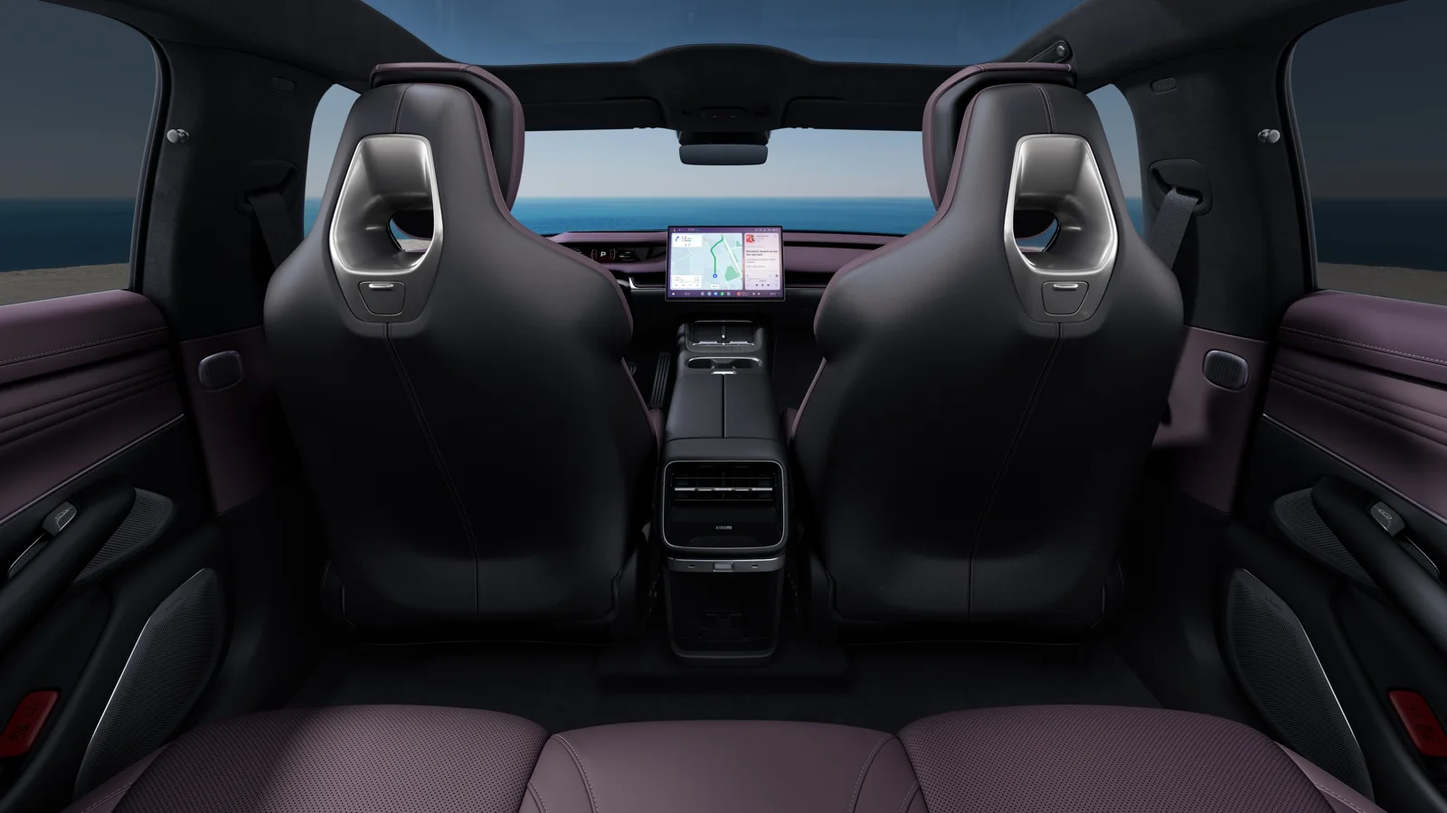
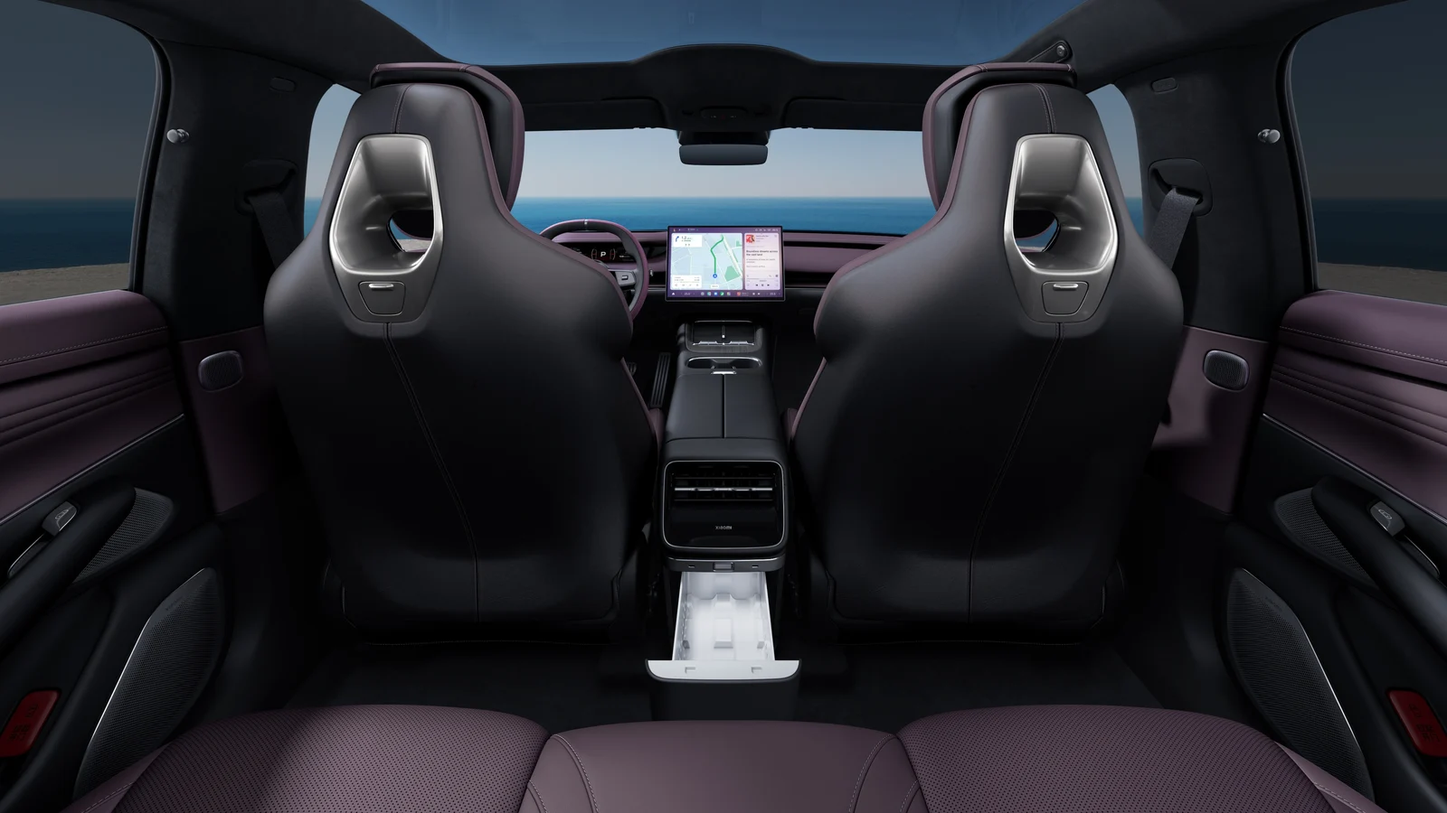
Конфигуратор Xiaomi SU7: сборка без цен, кадры Xiaomi под каждую сборку, отправка менеджеру

Changed region(s): [[0.4375, 0.6844, 0.5625, 0.84], [0.375, 0.2489, 0.4688, 0.3733]]

diff --git a/js/zeekr-data.js b/js/zeekr-data.js
@@ -1,2 +1,2 @@
 /* Данные конфигуратора Xiaomi SU7: официальный конфигуратор xiaomiev.com, сняты скриптами tools/xiaomi_snyat.py и tools/xiaomi_api.py. Цен нет намеренно. */
-window.ZEEKR_CFG = {"car":"Xiaomi SU7","short":"SU7","groups":[],"versions":[{"id":"v0","name":"Standard","tag":"720 км (CLTC), 320 л. с.","group":"","drive":"","level":[],"secs":[{"sku":"paint","role":"paint","title":"Цвет кузова","kind":"swatch","img":"ext","opts":[{"id":"p1","def":true,"promo":false,"promoTo":""},{"id":"p2","def":false,"promo":false,"promoTo":""},{"id":"p3","def":false,"promo":false,"promoTo":""},{"id":"p4","def":false,"promo":false,"promoTo":""},{"id":"p5","def":false,"promo":false,"promoTo":""},{"id":"p6","def":false,"promo":false,"promoTo":""},{"id":"p7","def":false,"promo":false,"promoTo":""}]},{"sku":"wheel","role":"wheel","title":"Диски","kind":"option","img":"ext","opts":[{"id":"w1","def":true,"promo":false,"promoTo":""},{"id":"w2","def":false,"promo":false,"promoTo":""},{"id":"w3","def":false,"promo":false,"promoTo":""},{"id":"w4","def":false,"promo":false,"promoTo":""}]},{"sku":"int","role":"int","title":"Цвет салона","kind":"swatch","img":"int","opts":[{"id":"i1","def":true,"promo":false,"promoTo":""},{"id":"i2","def":false,"promo":false,"promoTo":""},{"id":"i3","def":false,"promo":false,"promoTo":""},{"id":"i4","def":false,"promo":false,"promoTo":""}]}],"codePrefix":"v0-","vehicleSkus":["paint","wheel"],"interiorSkus":["int"],"ranges":{}},{"id":"v1","name":"Pro","tag":"902 км (CLTC), 320 л. с.","group":"","drive":"","level":[],"secs":[{"sku":"paint","role":"paint","title":"Цвет кузова","kind":"swatch","img":"ext","opts":[{"id":"p1","def":true,"promo":false,"promoTo":""},{"id":"p2","def":false,"promo":false,"promoTo":""},{"id":"p3","def":false,"promo":false,"promoTo":""},{"id":"p4","def":false,"promo":false,"promoTo":""},{"id":"p5","def":false,"promo":false,"promoTo":""},{"id":"p6","def":false,"promo":false,"promoTo":""},{"id":"p7","def":false,"promo":false,"promoTo":""}]},{"sku":"wheel","role":"wheel","title":"Диски","kind":"option","img":"ext","opts":[{"id":"w1","def":true,"promo":false,"promoTo":""},{"id":"w2","def":false,"promo":false,"promoTo":""},{"id":"w3","def":false,"promo":false,"promoTo":""},{"id":"w4","def":false,"promo":false,"promoTo":""}]},{"sku":"int","role":"int","title":"Цвет салона","kind":"swatch","img":"int","opts":[{"id":"i1","def":true,"promo":false,"promoTo":""},{"id":"i2","def":false,"promo":false,"promoTo":""},{"id":"i3","def":false,"promo":false,"promoTo":""},{"id":"i4","def":false,"promo":false,"promoTo":""}]}],"codePrefix":"v1-","vehicleSkus":["paint","wheel"],"interiorSkus":["int"],"ranges":{}},{"id":"v2","name":"Max","tag":"835 км (CLTC), 690 л. с.","group":"","drive":"","level":[],"secs":[{"sku":"paint","role":"paint","title":"Цвет кузова","kind":"swatch","img":"ext","opts":[{"id":"p1","def":true,"promo":false,"promoTo":""},{"id":"p2","def":false,"promo":false,"promoTo":""},{"id":"p3","def":false,"promo":false,"promoTo":""},{"id":"p4","def":false,"promo":false,"promoTo":""},{"id":"p5","def":false,"promo":false,"promoTo":""},{"id":"p6","def":false,"promo":false,"promoTo":""},{"id":"p7","def":false,"promo":false,"promoTo":""},{"id":"p8","def":false,"promo":false,"promoTo":""}]},{"sku":"wheel","role":"wheel","title":"Диски","kind":"option","img":"ext","opts":[{"id":"w1","def":true,"promo":false,"promoTo":""},{"id":"w2","def":false,"promo":false,"promoTo":""},{"id":"w3","def":false,"promo":false,"promoTo":""},{"id":"w5","def":false,"promo":false,"promoTo":""}]},{"sku":"int","role":"int","title":"Цвет салона","kind":"swatch","img":"int","opts":[{"id":"i1","def":true,"promo":false,"promoTo":""},{"id":"i2","def":false,"promo":false,"promoTo":""},{"id":"i3","def":false,"promo":false,"promoTo":""},{"id":"i4","def":false,"promo":false,"promoTo":""}]}],"codePrefix":"v2-","vehicleSkus":["paint","wheel"],"interiorSkus":["int"],"ranges":{}}],"options":{"p1":{"name":"Капри, синий","note":"","icon":"img/xiaomi-su7/options/p1.webp","mutex":["i3","w3"],"cascade":[],"sku":"paint"},"p2":{"name":"Алая заря","note":"","icon":"img/xiaomi-su7/options/p2.webp","mutex":["i3","i1","i4","w4","w3"],"cascade":[],"sku":"paint"},"p3":{"name":"Благородный серый","note":"","icon":"img/xiaomi-su7/options/p3.webp","mutex":["i4","w4","w3"],"cascade":[],"sku":"paint"},"p4":{"name":"Индиговый зелёный","note":"","icon":"img/xiaomi-su7/options/p4.webp","mutex":["w4","w3"],"cascade":[],"sku":"paint"},"p5":{"name":"Золотисто-розовый","note":"","icon":"img/xiaomi-su7/options/p5.webp","mutex":["i4","i3","w4"],"cascade":[],"sku":"paint"},"p6":{"name":"Жемчужно-белый","note":"","icon":"img/xiaomi-su7/options/p6.webp","mutex":["i2","i4","w4"],"cascade":[],"sku":"paint"},"p7":{"name":"Пурпурная заря","note":"","icon":"img/xiaomi-su7/options/p7.webp","mutex":["i3","i4","i2","w4"],"cascade":[],"sku":"paint"},"w1":{"name":"19″ «Алмаз»","note":"шины для дальних поездок","icon":"img/xiaomi-su7/options/w1.webp","mutex":[],"cascade":[],"sku":"wheel"},"w2":{"name":"20″ «Слива»","note":"шины для дальних поездок","icon":"img/xiaomi-su7/options/w2.webp","mutex":[],"cascade":[],"sku":"wheel"},"w3":{"name":"20″ «Рисовое зерно»","note":"шины для дальних поездок","icon":"img/xiaomi-su7/options/w3.webp","mutex":["p1","p2","p3","p4","p8"],"cascade":[],"sku":"wheel"},"w4":{"name":"20″ «Лезвие»","note":"спортивные шины","icon":"img/xiaomi-su7/options/w4.webp","mutex":["p2","p3","p4","p5","p6","p7","i3","i1","i4"],"cascade":[],"sku":"wheel"},"i1":{"name":"Туманный фиолетовый","note":"","icon":"img/xiaomi-su7/options/i1.webp","mutex":["p2","w4","p8"],"cascade":[],"sku":"int"},"i2":{"name":"Песочно-бежевый","note":"","icon":"img/xiaomi-su7/options/i2.webp","mutex":["p6","p7","p8"],"cascade":[],"sku":"int"},"i3":{"name":"Сумеречный красный","note":"","icon":"img/xiaomi-su7/options/i3.webp","mutex":["p1","p2","p5","p7","w4"],"cascade":[],"sku":"int"},"i4":{"name":"Ночной чёрный","note":"","icon":"img/xiaomi-su7/options/i4.webp","mutex":["p2","p3","p5","p6","p7","w4","p8"],"cascade":[],"sku":"int"},"p8":{"name":"Обсидиановый чёрный","note":"","icon":"img/xiaomi-su7/options/p8.webp","mutex":["i1","i2","i4","w3"],"cascade":[],"sku":"paint"},"w5":{"name":"21″ кованые «Слива», двухслойные","note":"шины для дальних поездок","icon":"img/xiaomi-su7/options/w5.webp","mutex":[],"cascade":[],"sku":"wheel"}},"have":{"v0-p1_w1":["hero","side","rear34","front","rear"],"v0-p1_w2":["hero","side","rear34","front","rear"],"v0-p1_w3":["hero","side","rear34","front","rear"],"v0-p1_w4":["hero","side","rear34","front","rear"],"v0-p2_w1":["hero","side","rear34","front","rear"],"v0-p2_w2":["hero","side","rear34","front","rear"],"v0-p2_w3":["hero","side","rear34","front","rear"],"v0-p2_w4":["hero","side","rear34","front","rear"],"v0-p3_w1":["hero","side","rear34","front","rear"],"v0-p3_w2":["hero","side","rear34","front","rear"],"v0-p3_w3":["hero","side","rear34","front","rear"],"v0-p3_w4":["hero","side","rear34","front","rear"],"v0-p4_w1":["hero","side","rear34","front","rear"],"v0-p4_w2":["hero","side","rear34","front","rear"],"v0-p4_w3":["hero","side","rear34","front","rear"],"v0-p4_w4":["hero","side","rear34","front","rear"],"v0-p5_w1":["hero","side","rear34","front","rear"],"v0-p5_w2":["hero","side","rear34","front","rear"],"v0-p5_w3":["hero","side","rear34","front","rear"],"v0-p5_w4":["hero","side","rear34","front","rear"],"v0-p6_w1":["hero","side","rear34","front","rear"],"v0-p6_w2":["hero","side","rear34","front","rear"],"v0-p6_w3":["hero","side","rear34","front","rear"],"v0-p6_w4":["hero","side","rear34","front","rear"],"v0-p7_w1":["hero","side","rear34","front","rear"],"v0-p7_w2":["hero","side","rear34","front","rear"],"v0-p7_w3":["hero","side","rear34","front","rear"],"v0-p7_w4":["hero","side","rear34","front","rear"],"v1-p1_w1":["hero","side","rear34","front","rear"],"v1-p1_w2":["hero","side","rear34","front","rear"],"v1-p1_w3":["hero","side","rear34","front","rear"],"v1-p1_w4":["hero","side","rear34","front","rear"],"v1-p2_w1":["hero","side","rear34","front","rear"],"v1-p2_w2":["hero","side","rear34","front","rear"],"v1-p2_w3":["hero","side","rear34","front","rear"],"v1-p2_w4":["hero","side","rear34","front","rear"],"v1-p3_w1":["hero","side","rear34","front","rear"],"v1-p3_w2":["hero","side","rear34","front","rear"],"v1-p3_w3":["hero","side","rear34","front","rear"],"v1-p3_w4":["hero","side","rear34","front","rear"],"v1-p4_w1":["hero","side","rear34","front","rear"],"v1-p4_w2":["hero","side","rear34","front","rear"],"v1-p4_w3":["hero","side","rear34","front","rear"],"v1-p4_w4":["hero","side","rear34","front","rear"],"v1-p5_w1":["hero","side","rear34","front","rear"],"v1-p5_w2":["hero","side","rear34","front","rear"],"v1-p5_w3":["hero","side","rear34","front","rear"],"v1-p5_w4":["hero","side","rear34","front","rear"],"v1-p6_w1":["hero","side","rear34","front","rear"],"v1-p6_w2":["hero","side","rear34","front","rear"],"v1-p6_w3":["hero","side","rear34","front","rear"],"v1-p6_w4":["hero","side","rear34","front","rear"],"v1-p7_w1":["hero","side","rear34","front","rear"],"v1-p7_w2":["hero","side","rear34","front","rear"],"v1-p7_w3":["hero","side","rear34","front","rear"],"v1-p7_w4":["hero","side","rear34","front","rear"],"v2-p1_w1":["hero","side","rear34","front","rear"],"v2-p1_w2":["hero","side","rear34","front","rear"],"v2-p1_w3":["hero","side","rear34","front","rear"],"v2-p1_w5":["hero","side","rear34","front","rear"],"v2-p2_w1":["hero","side","rear34","front","rear"],"v2-p2_w2":["hero","side","rear34","front","rear"],"v2-p2_w3":["hero","side","rear34","front","rear"],"v2-p2_w5":["hero","side","rear34","front","rear"],"v2-p3_w1":["hero","side","rear34","front","rear"],"v2-p3_w2":["hero","side","rear34","front","rear"],"v2-p3_w3":["hero","side","rear34","front","rear"],"v2-p3_w5":["hero","side","rear34","front","rear"],"v2-p4_w1":["hero","side","rear34","front","rear"],"v2-p4_w2":["hero","side","rear34","front","rear"],"v2-p4_w3":["hero","side","rear34","front","rear"],"v2-p4_w5":["hero","side","rear34","front","rear"],"v2-p5_w1":["hero","side","rear34","front","rear"],"v2-p5_w2":["hero","side","rear34","front","rear"],"v2-p5_w3":["hero","side","rear34","front","rear"],"v2-p5_w5":["hero","side","rear34","front","rear"],"v2-p6_w1":["hero","side","rear34","front","rear"],"v2-p6_w2":["hero","side","rear34","front","rear"],"v2-p6_w3":["hero","side","rear34","front","rear"],"v2-p6_w5":["hero","side","rear34","front","rear"],"v2-p7_w1":["hero","side","rear34","front","rear"],"v2-p7_w2":["hero","side","rear34","front","rear"],"v2-p7_w3":["hero","side","rear34","front","rear"],"v2-p7_w5":["hero","side","rear34","front","rear"],"v2-p8_w1":["hero","side","rear34","front","rear"],"v2-p8_w2":["hero","side","rear34","front","rear"],"v2-p8_w3":["hero","side","rear34","front","rear"],"v2-p8_w5":["hero","side","rear34","front","rear"]},"int":["v0-i1","v0-i2","v0-i3","v0-i4","v1-i1","v1-i2","v1-i3","v1-i4","v2-i1","v2-i2","v2-i3","v2-i4"],"paths":{"ext":"img/xiaomi-su7/ext/{code}--{shot}.webp","int":"img/xiaomi-su7/int/{code}--{shot}.webp"},"shots":[{"id":"hero","label":"Спереди","fit":"cover"},{"id":"side","label":"Сбоку","fit":"cover"},{"id":"rear34","label":"Сзади","fit":"cover"},{"id":"front","label":"Вид спереди","fit":"cover"},{"id":"rear","label":"Вид сзади","fit":"cover"},{"id":"int","label":"Салон","kind":"int"},{"id":"int2","label":"Второй ряд","kind":"int"}]};
+window.ZEEKR_CFG = {"car":"Xiaomi SU7","short":"SU7","groups":[],"versions":[{"id":"v0","name":"Standard","tag":"720 км (CLTC), 320 л. с.","group":"","drive":"","level":[],"secs":[{"sku":"paint","role":"paint","title":"Цвет кузова","kind":"swatch","img":"ext","opts":[{"id":"p1","def":true,"promo":false,"promoTo":""},{"id":"p2","def":false,"promo":false,"promoTo":""},{"id":"p3","def":false,"promo":false,"promoTo":""},{"id":"p4","def":false,"promo":false,"promoTo":""},{"id":"p5","def":false,"promo":false,"promoTo":""},{"id":"p6","def":false,"promo":false,"promoTo":""},{"id":"p7","def":false,"promo":false,"promoTo":""}]},{"sku":"wheel","role":"wheel","title":"Диски","kind":"option","img":"ext","opts":[{"id":"w1","def":true,"promo":false,"promoTo":""},{"id":"w2","def":false,"promo":false,"promoTo":""},{"id":"w3","def":false,"promo":false,"promoTo":""},{"id":"w4","def":false,"promo":false,"promoTo":""}]},{"sku":"int","role":"int","title":"Цвет салона","kind":"swatch","img":"int","opts":[{"id":"i1","def":true,"promo":false,"promoTo":""},{"id":"i2","def":false,"promo":false,"promoTo":""},{"id":"i3","def":false,"promo":false,"promoTo":""},{"id":"i4","def":false,"promo":false,"promoTo":""}]}],"codePrefix":"v0-","vehicleSkus":["paint","wheel"],"interiorSkus":["int"],"ranges":{}},{"id":"v1","name":"Pro","tag":"902 км (CLTC), 320 л. с.","group":"","drive":"","level":[],"secs":[{"sku":"paint","role":"paint","title":"Цвет кузова","kind":"swatch","img":"ext","opts":[{"id":"p1","def":true,"promo":false,"promoTo":""},{"id":"p2","def":false,"promo":false,"promoTo":""},{"id":"p3","def":false,"promo":false,"promoTo":""},{"id":"p4","def":false,"promo":false,"promoTo":""},{"id":"p5","def":false,"promo":false,"promoTo":""},{"id":"p6","def":false,"promo":false,"promoTo":""},{"id":"p7","def":false,"promo":false,"promoTo":""}]},{"sku":"wheel","role":"wheel","title":"Диски","kind":"option","img":"ext","opts":[{"id":"w1","def":true,"promo":false,"promoTo":""},{"id":"w2","def":false,"promo":false,"promoTo":""},{"id":"w3","def":false,"promo":false,"promoTo":""},{"id":"w4","def":false,"promo":false,"promoTo":""}]},{"sku":"int","role":"int","title":"Цвет салона","kind":"swatch","img":"int","opts":[{"id":"i1","def":true,"promo":false,"promoTo":""},{"id":"i2","def":false,"promo":false,"promoTo":""},{"id":"i3","def":false,"promo":false,"promoTo":""},{"id":"i4","def":false,"promo":false,"promoTo":""}]}],"codePrefix":"v1-","vehicleSkus":["paint","wheel"],"interiorSkus":["int"],"ranges":{}},{"id":"v2","name":"Max","tag":"835 км (CLTC), 690 л. с.","group":"","drive":"","level":[],"secs":[{"sku":"paint","role":"paint","title":"Цвет кузова","kind":"swatch","img":"ext","opts":[{"id":"p1","def":true,"promo":false,"promoTo":""},{"id":"p2","def":false,"promo":false,"promoTo":""},{"id":"p3","def":false,"promo":false,"promoTo":""},{"id":"p4","def":false,"promo":false,"promoTo":""},{"id":"p5","def":false,"promo":false,"promoTo":""},{"id":"p6","def":false,"promo":false,"promoTo":""},{"id":"p7","def":false,"promo":false,"promoTo":""},{"id":"p8","def":false,"promo":false,"promoTo":""}]},{"sku":"wheel","role":"wheel","title":"Диски","kind":"option","img":"ext","opts":[{"id":"w1","def":true,"promo":false,"promoTo":""},{"id":"w2","def":false,"promo":false,"promoTo":""},{"id":"w3","def":false,"promo":false,"promoTo":""},{"id":"w5","def":false,"promo":false,"promoTo":""}]},{"sku":"int","role":"int","title":"Цвет салона","kind":"swatch","img":"int","opts":[{"id":"i1","def":true,"promo":false,"promoTo":""},{"id":"i2","def":false,"promo":false,"promoTo":""},{"id":"i3","def":false,"promo":false,"promoTo":""},{"id":"i4","def":false,"promo":false,"promoTo":""}]}],"codePrefix":"v2-","vehicleSkus":["paint","wheel"],"interiorSkus":["int"],"ranges":{}}],"options":{"p1":{"name":"Капри, синий","note":"","icon":"img/xiaomi-su7/options/p1.webp","mutex":["i3","w3"],"cascade":[],"sku":"paint"},"p2":{"name":"Алая заря","note":"","icon":"img/xiaomi-su7/options/p2.webp","mutex":["i3","i1","i4","w4","w3"],"cascade":[],"sku":"paint"},"p3":{"name":"Благородный серый","note":"","icon":"img/xiaomi-su7/options/p3.webp","mutex":["i4","w4","w3"],"cascade":[],"sku":"paint"},"p4":{"name":"Индиговый зелёный","note":"","icon":"img/xiaomi-su7/options/p4.webp","mutex":["w4","w3"],"cascade":[],"sku":"paint"},"p5":{"name":"Золотисто-розовый","note":"","icon":"img/xiaomi-su7/options/p5.webp","mutex":["i4","i3","w4"],"cascade":[],"sku":"paint"},"p6":{"name":"Жемчужно-белый","note":"","icon":"img/xiaomi-su7/options/p6.webp","mutex":["i2","i4","w4"],"cascade":[],"sku":"paint"},"p7":{"name":"Пурпурная заря","note":"","icon":"img/xiaomi-su7/options/p7.webp","mutex":["i3","i4","i2","w4"],"cascade":[],"sku":"paint"},"w1":{"name":"19″ «Алмаз»","note":"шины для дальних поездок","icon":"img/xiaomi-su7/options/w1.webp","mutex":[],"cascade":[],"sku":"wheel"},"w2":{"name":"20″ «Слива»","note":"шины для дальних поездок","icon":"img/xiaomi-su7/options/w2.webp","mutex":[],"cascade":[],"sku":"wheel"},"w3":{"name":"20″ «Рисовое зерно»","note":"шины для дальних поездок","icon":"img/xiaomi-su7/options/w3.webp","mutex":["p1","p2","p3","p4","p8"],"cascade":[],"sku":"wheel"},"w4":{"name":"20″ «Лезвие»","note":"спортивные шины","icon":"img/xiaomi-su7/options/w4.webp","mutex":["p2","p3","p4","p5","p6","p7","i3","i1","i4"],"cascade":[],"sku":"wheel"},"i1":{"name":"Туманный фиолетовый","note":"","icon":"img/xiaomi-su7/options/i1.webp","mutex":["p2","w4","p8"],"cascade":[],"sku":"int"},"i2":{"name":"Песочно-бежевый","note":"","icon":"img/xiaomi-su7/options/i2.webp","mutex":["p6","p7","p8"],"cascade":[],"sku":"int"},"i3":{"name":"Сумеречный красный","note":"","icon":"img/xiaomi-su7/options/i3.webp","mutex":["p1","p2","p5","p7","w4"],"cascade":[],"sku":"int"},"i4":{"name":"Ночной чёрный","note":"","icon":"img/xiaomi-su7/options/i4.webp","mutex":["p2","p3","p5","p6","p7","w4","p8"],"cascade":[],"sku":"int"},"p8":{"name":"Обсидиановый чёрный","note":"","icon":"img/xiaomi-su7/options/p8.webp","mutex":["i1","i2","i4","w3"],"cascade":[],"sku":"paint"},"w5":{"name":"21″ кованые «Слива», двухслойные","note":"шины для дальних поездок","icon":"img/xiaomi-su7/options/w5.webp","mutex":[],"cascade":[],"sku":"wheel"}},"have":{"v0-p1_w1":["hero","side","rear34","front","rear"],"v0-p1_w2":["hero","side","rear34","front","rear"],"v0-p1_w3":["hero","side","rear34","front","rear"],"v0-p1_w4":["hero","side","rear34","front","rear"],"v0-p2_w1":["hero","side","rear34","front","rear"],"v0-p2_w2":["hero","side","rear34","front","rear"],"v0-p2_w3":["hero","side","rear34","front","rear"],"v0-p2_w4":["hero","side","rear34","front","rear"],"v0-p3_w1":["hero","side","rear34","front","rear"],"v0-p3_w2":["hero","side","rear34","front","rear"],"v0-p3_w3":["hero","side","rear34","front","rear"],"v0-p3_w4":["hero","side","rear34","front","rear"],"v0-p4_w1":["hero","side","rear34","front","rear"],"v0-p4_w2":["hero","side","rear34","front","rear"],"v0-p4_w3":["hero","side","rear34","front","rear"],"v0-p4_w4":["hero","side","rear34","front","rear"],"v0-p5_w1":["hero","side","rear34","front","rear"],"v0-p5_w2":["hero","side","rear34","front","rear"],"v0-p5_w3":["hero","side","rear34","front","rear"],"v0-p5_w4":["hero","side","rear34","front","rear"],"v0-p6_w1":["hero","side","rear34","front","rear"],"v0-p6_w2":["hero","side","rear34","front","rear"],"v0-p6_w3":["hero","side","rear34","front","rear"],"v0-p6_w4":["hero","side","rear34","front","rear"],"v0-p7_w1":["hero","side","rear34","front","rear"],"v0-p7_w2":["hero","side","rear34","front","rear"],"v0-p7_w3":["hero","side","rear34","front","rear"],"v0-p7_w4":["hero","side","rear34","front","rear"],"v1-p1_w1":["hero","side","rear34","front","rear"],"v1-p1_w2":["hero","side","rear34","front","rear"],"v1-p1_w3":["hero","side","rear34","front","rear"],"v1-p1_w4":["hero","side","rear34","front","rear"],"v1-p2_w1":["hero","side","rear34","front","rear"],"v1-p2_w2":["hero","side","rear34","front","rear"],"v1-p2_w3":["hero","side","rear34","front","rear"],"v1-p2_w4":["hero","side","rear34","front","rear"],"v1-p3_w1":["hero","side","rear34","front","rear"],"v1-p3_w2":["hero","side","rear34","front","rear"],"v1-p3_w3":["hero","side","rear34","front","rear"],"v1-p3_w4":["hero","side","rear34","front","rear"],"v1-p4_w1":["hero","side","rear34","front","rear"],"v1-p4_w2":["hero","side","rear34","front","rear"],"v1-p4_w3":["hero","side","rear34","front","rear"],"v1-p4_w4":["hero","side","rear34","front","rear"],"v1-p5_w1":["hero","side","rear34","front","rear"],"v1-p5_w2":["hero","side","rear34","front","rear"],"v1-p5_w3":["hero","side","rear34","front","rear"],"v1-p5_w4":["hero","side","rear34","front","rear"],"v1-p6_w1":["hero","side","rear34","front","rear"],"v1-p6_w2":["hero","side","rear34","front","rear"],"v1-p6_w3":["hero","side","rear34","front","rear"],"v1-p6_w4":["hero","side","rear34","front","rear"],"v1-p7_w1":["hero","side","rear34","front","rear"],"v1-p7_w2":["hero","side","rear34","front","rear"],"v1-p7_w3":["hero","side","rear34","front","rear"],"v1-p7_w4":["hero","side","rear34","front","rear"],"v2-p1_w1":["hero","side","rear34","front","rear"],"v2-p1_w2":["hero","side","rear34","front","rear"],"v2-p1_w3":["hero","side","rear34","front","rear"],"v2-p1_w5":["hero","side","rear34","front","rear"],"v2-p2_w1":["hero","side","rear34","front","rear"],"v2-p2_w2":["hero","side","rear34","front","rear"],"v2-p2_w3":["hero","side","rear34","front","rear"],"v2-p2_w5":["hero","side","rear34","front","rear"],"v2-p3_w1":["hero","side","rear34","front","rear"],"v2-p3_w2":["hero","side","rear34","front","rear"],"v2-p3_w3":["hero","side","rear34","front","rear"],"v2-p3_w5":["hero","side","rear34","front","rear"],"v2-p4_w1":["hero","side","rear34","front","rear"],"v2-p4_w2":["hero","side","rear34","front","rear"],"v2-p4_w3":["hero","side","rear34","front","rear"],"v2-p4_w5":["hero","side","rear34","front","rear"],"v2-p5_w1":["hero","side","rear34","front","rear"],"v2-p5_w2":["hero","side","rear34","front","rear"],"v2-p5_w3":["hero","side","rear34","front","rear"],"v2-p5_w5":["hero","side","rear34","front","rear"],"v2-p6_w1":["hero","side","rear34","front","rear"],"v2-p6_w2":["hero","side","rear34","front","rear"],"v2-p6_w3":["hero","side","rear34","front","rear"],"v2-p6_w5":["hero","side","rear34","front","rear"],"v2-p7_w1":["hero","side","rear34","front","rear"],"v2-p7_w2":["hero","side","rear34","front","rear"],"v2-p7_w3":["hero","side","rear34","front","rear"],"v2-p7_w5":["hero","side","rear34","front","rear"],"v2-p8_w1":["hero","side","rear34","front","rear"],"v2-p8_w2":["hero","side","rear34","front","rear"],"v2-p8_w3":["hero","side","rear34","front","rear"],"v2-p8_w5":["hero","side","rear34","front","rear"]},"int":["v0-i1","v0-i2","v0-i3","v0-i4","v1-i1","v1-i2","v1-i3","v1-i4","v2-i1","v2-i2","v2-i3","v2-i4"],"paths":{"ext":"img/xiaomi-su7/ext/{code}--{shot}.webp","int":"img/xiaomi-su7/int/{code}--{shot}.webp"},"shots":[{"id":"hero","label":"Спереди","fit":"cover"},{"id":"side","label":"Сбоку","fit":"cover"},{"id":"rear34","label":"Сзади","fit":"cover"},{"id":"front","label":"Вид спереди","fit":"cover"},{"id":"rear","label":"Вид сзади","fit":"cover"},{"id":"int","label":"Салон","kind":"int"},{"id":"int2","label":"Из второго ряда","kind":"int"}]};

diff --git a/tools/xiaomi_api.py b/tools/xiaomi_api.py
@@ -70,16 +70,29 @@ def items_of(cfg):
                         yield t, g, dict(ch, name=i['name'], defaultSelect=any(c.get('defaultSelect') for c in i['itemList']), configValueImage=img, _all=[c['ssuId'] for c in i['itemList']])
                     elif 'ssuId' in i: yield t, g, i
 
-def layers(v, sel, view):
+def selection(v):
+    """Полный выбор по умолчанию. У необязательной опции Xiaomi есть скрытый вариант «не выбрано» (defaultSsuNode): обычный руль,
+    штатные накладки и т. п. Их сайт подставляет сам; без них в кадре пропадают детали (салон без руля, 12.11.2026)."""
+    sel = {}
+    for t, g, i in items_of(v['cfg']):
+        d = i.get('defaultSsuNode') or {}
+        if d.get('itemIdentifier') and d.get('ssuId'): sel.setdefault(d['itemIdentifier'], d['ssuId'])
+    sel.update(v['cfg']['configurator']['defaultConfigSsuInfo']); sel['0_BB'] = v['ssuId']
+    return sel
+
+def layers(v, sel, view, page='CAR_CONFIG_OUTCOMEOUTSIDE_PAGE', comp='COLOR_PAGE_OUTCOME'):
     """Слои кадра по правилу сборки Xiaomi: [(url, x, y, w, h)] снизу вверх."""
-    page = v['mat']['pageMap']['CAR_CONFIG_OUTCOMEOUTSIDE_PAGE']; dp = page['dataPool']; out = []
-    for rule in page['componentMap']['COLOR_PAGE_OUTCOME']['combinationRule']:
+    pg = v['mat']['pageMap'].get(page) or {}; dp = pg.get('dataPool') or {}; out = []
+    for rule in ((pg.get('componentMap') or {}).get(comp) or {}).get('combinationRule') or []:
         for el in rule['elementList']:
             ssus = [sel.get(i) for i in el.split(',')]
             if any(s is None for s in ssus): continue
             mv = (dp.get('PC_' + rule['componentId'] + ':' + ':'.join(str(s) for s in ssus)) or {}).get('materialValueList') or []
             for x in mv:
-                if x.get('viewIdentityEnum') == view and x.get('payload') and x['width'] > 1: out.append((x['payload'], x['xCoordinate'], x['yCoordinate'], x['width'], x['height']))
+                if x.get('viewIdentityEnum') == view and x.get('payload') and x['width'] > 1:
+                    w, h = x['width'], x['height']
+                    if x['xCoordinate'] == 0 and x['yCoordinate'] == 0 and 2000 <= w < 5000 and abs(w / h - 5000 / 2812) < 0.02: w, h = 5000, 2812   # вся сцена, выложенная в меньшем размере
+                    out.append((x['payload'], x['xCoordinate'], x['yCoordinate'], w, h))
     return out
 
 def sobrat(proj, car, short, slug):
@@ -96,10 +109,10 @@ def sobrat(proj, car, short, slug):
         k = (role, re.sub(r'\s+', '', cn))
         if k not in reg: reg[k] = f'{role[0]}{len([x for x in reg if x[0] == role]) + 1}'
         return reg[k]
-    options, vers, have, ints, frames, icons, intjobs, mut = {}, [], {}, [], [], {}, {}, collections.defaultdict(set)
+    options, vers, have, ints, frames, iframes, icons, mut = {}, [], {}, [], [], [], {}, collections.defaultdict(set)
     for vi, v in enumerate(raw['versions']):
         cfg = v['cfg']; pre = f'v{vi}-'; pm = v['mat']['pageMap']
-        dflt = dict(cfg['configurator']['defaultConfigSsuInfo']); dflt['0_BB'] = v['ssuId']
+        dflt = selection(v)
         ins = (pm.get('INSIDE_PAGE') or {}).get('dataPool') or {}
         byrole = {'paint': [], 'wheel': [], 'int': []}; ssu2opt = {}
         for t, g, i in items_of(cfg):
@@ -125,11 +138,12 @@ def sobrat(proj, car, short, slug):
                 options.setdefault(pc, {'name': nm, 'note': note, 'icon': icon, 'mutex': [], 'cascade': [], 'sku': role})
                 ops.append({'id': pc, 'def': bool(i.get('defaultSelect')) or dflt.get(i.get('itemIdentifier')) in ([i['ssuId']] + (i.get('_all') or [])), 'promo': False, 'promoTo': ''})
                 if role == 'int':
-                    mv = {x.get('viewIdentityEnum'): x['payload'] for x in (ins.get(f'PC_INSIDE_CAR_CONFIG_OUTCOME_CROPPING:{i["ssuId"]}') or {}).get('materialValueList') or [] if x.get('width', 0) > 1}   # 1×1 – заглушка
-                    a, b = mv.get('2d_frontRow_DRIVER') or mv.get('2d_frontRow_PAX'), mv.get('2d_backRow_CNTR')
+                    isel = dict(dflt, **{'1_NSYS': i['ssuId']}); full = lambda ls: bool(ls) and ls[0][3] >= 4000      # салон тоже собирается из слоёв: основа + руль, накладки, экраны
+                    il = lambda view: layers(v, isel, view, 'INSIDE_PAGE', 'INSIDE_COMBINATION_OUTCOME')
+                    a = next((il(vw) for vw in ('2d_frontRow_DRIVER', '2d_frontRow_PAX') if full(il(vw))), None); b = il('2d_backRow_CNTR')
                     if a:
-                        code = pre + pc; ints.append(code); intjobs[f'{proj}/{IMG}/int/{code}--int.webp'] = a
-                        if b: intjobs[f'{proj}/{IMG}/int/{code}--int2.webp'] = b
+                        code = pre + pc; ints.append(code); iframes.append((f'{proj}/{IMG}/int/{code}--int.webp', 'int', a, None))
+                        if full(b): iframes.append((f'{proj}/{IMG}/int/{code}--int2.webp', 'int2', b, None))
             if ops:
                 if not any(o['def'] for o in ops): ops[0]['def'] = True
                 secs.append({'sku': role, 'role': role, 'title': title, 'kind': kind, 'img': img, 'opts': ops})
@@ -157,7 +171,7 @@ def sobrat(proj, car, short, slug):
         if all(i in vids for i in both): options[a]['mutex'].append(b); options[b]['mutex'].append(a)
         else: print('ВНИМАНИЕ: пара несовместима не во всех версиях, правило не поставлено:', options[a]['name'], '/', options[b]['name'], flush=True)
     # скачать слои
-    urls = sorted({l[0] for f in frames for l in f[2]} | set(icons.values()) | set(intjobs.values()))
+    urls = sorted({l[0] for f in frames + iframes for l in f[2]} | set(icons.values()))
     with ThreadPoolExecutor(6) as ex: got = dict(zip(urls, ex.map(lambda u: curl(u, cpath(u)), urls)))
     print('слоёв и значков', len(urls), 'не скачалось', sum(not g for g in got.values()), flush=True)
     # рамка вырезки на вид: по слою дисков первой сборки (центр по горизонтали, колёса на 2/3 высоты), ширина одна на модель
@@ -178,7 +192,7 @@ def sobrat(proj, car, short, slug):
     def make(fr):
         dst, sid, ls, _ = fr; sig = (sid,) + tuple(l[0] for l in ls)
         if sig in done: return
-        done[sig] = dst; box = boxes[sid]; canvas = None
+        done[sig] = dst; box = boxes[sid]; canvas = None; size = (OUT_W, OUT_H) if sid not in ('int', 'int2') else (1600, 900)
         if os.path.exists(dst) and os.path.getsize(dst) > 300: return
         for u, x, y, w, h in ls:
             if not got.get(u): return
@@ -194,11 +208,12 @@ def sobrat(proj, car, short, slug):
                 l = px[x0 - 2, y]; r = px[x1 + 2, y]
                 for x in range(x0, x1):
                     t = (x - x0) / max(1, x1 - x0); px[x, y] = tuple(int(l[i] + (r[i] - l[i]) * t) for i in range(3))
-        canvas.resize((OUT_W, OUT_H), Image.LANCZOS).save(dst + '.part', 'WEBP', quality=86, method=4); os.replace(dst + '.part', dst)
+        canvas.resize(size, Image.LANCZOS).save(dst + '.part', 'WEBP', quality=86, method=4); os.replace(dst + '.part', dst)
     uniq = {}
-    for fr in frames: uniq.setdefault((fr[1],) + tuple(l[0] for l in fr[2]), fr)
+    boxes['int'] = boxes['int2'] = (0, 0, 5000, 2812)
+    for fr in frames + iframes: uniq.setdefault((fr[1],) + tuple(l[0] for l in fr[2]), fr)
     with ThreadPoolExecutor(4) as ex: list(ex.map(make, uniq.values()))
-    for dst, sid, ls, _ in frames:                                           # одинаковые сборки разных версий – копией
+    for dst, sid, ls, _ in frames + iframes:                                 # одинаковые сборки разных версий – копией
         src = done.get((sid,) + tuple(l[0] for l in ls))
         if src and src != dst and os.path.exists(src) and not os.path.exists(dst): shutil.copyfile(src, dst)
     def small(item, size, q):
@@ -206,8 +221,7 @@ def sobrat(proj, car, short, slug):
         if not got.get(u) or (os.path.exists(dst) and os.path.getsize(dst) > 300): return
         im = Image.open(cpath(u)); im = im.convert('RGBA' if size[0] < 200 else 'RGB'); im.thumbnail(size); im.save(dst + '.part', 'WEBP', quality=q, method=4); os.replace(dst + '.part', dst)
     for it in icons.items(): small(it, (112, 112), 88)
-    for it in intjobs.items(): small(it, (1600, 1600), 84)
-    keep = {f[0] for f in frames} | set(icons) | set(intjobs)                 # кадры от прежних сборок, которых больше нет в данных, убираем
+    keep = {f[0] for f in frames + iframes} | set(icons)                 # кадры от прежних сборок, которых больше нет в данных, убираем
     for d in ('ext', 'int', 'options'):
         for fn in os.listdir(f'{proj}/{IMG}/{d}'):
             if f'{proj}/{IMG}/{d}/{fn}' not in keep: os.remove(f'{proj}/{IMG}/{d}/{fn}')
@@ -219,7 +233,7 @@ def sobrat(proj, car, short, slug):
     for o in options.values():
         if o['icon'] and not ex_(f'{proj}/{o["icon"]}'): o['icon'] = None
     used = [sid for sid, _, _ in VIEWS if any(sid in ss for ss in have.values())]
-    shots = [{'id': sid, 'label': lab, 'fit': 'cover'} for sid, _, lab in VIEWS if sid in used] + [{'id': 'int', 'label': 'Салон', 'kind': 'int'}] + ([{'id': 'int2', 'label': 'Второй ряд', 'kind': 'int'}] if two else [])
+    shots = [{'id': sid, 'label': lab, 'fit': 'cover'} for sid, _, lab in VIEWS if sid in used] + [{'id': 'int', 'label': 'Салон', 'kind': 'int'}] + ([{'id': 'int2', 'label': 'Из второго ряда', 'kind': 'int'}] if two else [])
     for v in vers:
         by = {s['sku']: s for s in v['secs']}
         miss = [c for c in (v['codePrefix'] + p['id'] + '_' + w['id'] for p in by['paint']['opts'] for w in by['wheel']['opts'] if w['id'] not in options[p['id']]['mutex']) if c not in have]

diff --git a/tools/obzor.py b/tools/obzor.py
@@ -1,0 +1,46 @@
+"""Обзорные листы кадров конфигуратора – смотреть глазами перед выкладкой (правило после салона Xiaomi без руля, 12.11.2026).
+  python3 obzor.py <папка проекта> <папка для листов>
+Салон: КАЖДЫЙ разный кадр салона (одинаковые по содержимому показываются один раз, с числом повторов).
+Кузов: по каждой версии – все виды сборки по умолчанию и главный кадр каждого цвета.
+На что смотреть: руль, сиденья, экраны, зеркала, диски, антикрыло на месте; нет обрезанной машины, пустых областей, иероглифов."""
+import json, os, sys, hashlib, collections
+from PIL import Image, ImageDraw
+proj, out = sys.argv[1], sys.argv[2]; os.makedirs(out, exist_ok=True)
+name = os.path.basename(os.path.abspath(proj)).replace('-konfigurator', '')
+d = json.loads(open(f'{proj}/js/zeekr-data.js').read().split('window.ZEEKR_CFG = ', 1)[1].rstrip().rstrip(';'))
+def sheet(cells, cols, cw, ch, path, per=28):
+    files = []
+    for part in range(0, len(cells), per):
+        ch_ = cells[part:part + per]; rows = (len(ch_) + cols - 1) // cols
+        sh = Image.new('RGB', (cols * cw, rows * (ch + 14)), (238, 238, 238)); dr = ImageDraw.Draw(sh)
+        for n, (f, label) in enumerate(ch_):
+            x, y = (n % cols) * cw, (n // cols) * (ch + 14)
+            try:
+                im = Image.open(f).convert('RGBA'); bg = Image.new('RGBA', im.size, (238, 238, 238, 255)); bg.alpha_composite(im); im = bg.convert('RGB'); im.thumbnail((cw - 4, ch)); sh.paste(im, (x + 2, y + 13))
+            except Exception as e: dr.text((x + 4, y + 30), 'НЕ ОТКРЫВАЕТСЯ', fill=(255, 0, 0))
+            dr.text((x + 3, y + 1), label[:int(cw / 6.2)], fill=(0, 0, 0))
+        p = f'{path}-{part // per + 1}.png'; sh.save(p); files.append(p)
+    return files
+ish = [s['id'] for s in d['shots'] if s['id'] == 'int' or s.get('kind') == 'int']
+seen = collections.OrderedDict()
+for c in d['int']:
+    for s in ish:
+        f = f'{proj}/' + d['paths']['int'].replace('{code}', c).replace('{shot}', s)
+        if not os.path.exists(f): continue
+        h = hashlib.md5(open(f, 'rb').read()).hexdigest(); seen.setdefault(h, [f, f'{c} {s}', 0]); seen[h][2] += 1
+files = sheet([(f, f'{lab} ×{n}') for f, lab, n in seen.values()], 4, 350, 220, f'{out}/{name}-salon', 24)
+cells = []
+for v in d['versions']:
+    by = {s['sku']: s for s in v['secs']}
+    def code(sel): return v.get('codePrefix', '') + '_'.join(x for x in (sel.get(k) for k in v['vehicleSkus']) if x)
+    dsel = {k: (next((o['id'] for o in s['opts'] if o['def']), s['opts'][0]['id']) if s['role'] != 'extra' else (s['opts'][0]['id'] if s['opts'][0]['def'] or s['opts'][0].get('pre') else None)) for k, s in by.items()}
+    c0 = code(dsel); shots = (['hero'] + [x for x in ((d.get('ang') or {}).get(c0) or d['have'].get(c0) or []) if x != 'hero'])
+    for s in shots:
+        f = f'{proj}/' + d['paths']['ext'].replace('{code}', c0).replace('{shot}', s)
+        cells.append((f, f'{v["name"]} | {s}'))
+    paint = next((s for s in v['secs'] if s['role'] == 'paint'), None)
+    for o in (paint['opts'] if paint else []):
+        c = code(dict(dsel, **{paint['sku']: o['id']}))
+        if c != c0 and c in d['have']: cells.append((f'{proj}/' + d['paths']['ext'].replace('{code}', c).replace('{shot}', 'hero'), f'{v["name"]} | {d["options"][o["id"]]["name"]}'))
+files += sheet(cells, 4, 350, 220, f'{out}/{name}-kuzov', 24)
+print(name, 'разных кадров салона', len(seen), 'кадров кузова в обзоре', len(cells)); print('\n'.join(files))
